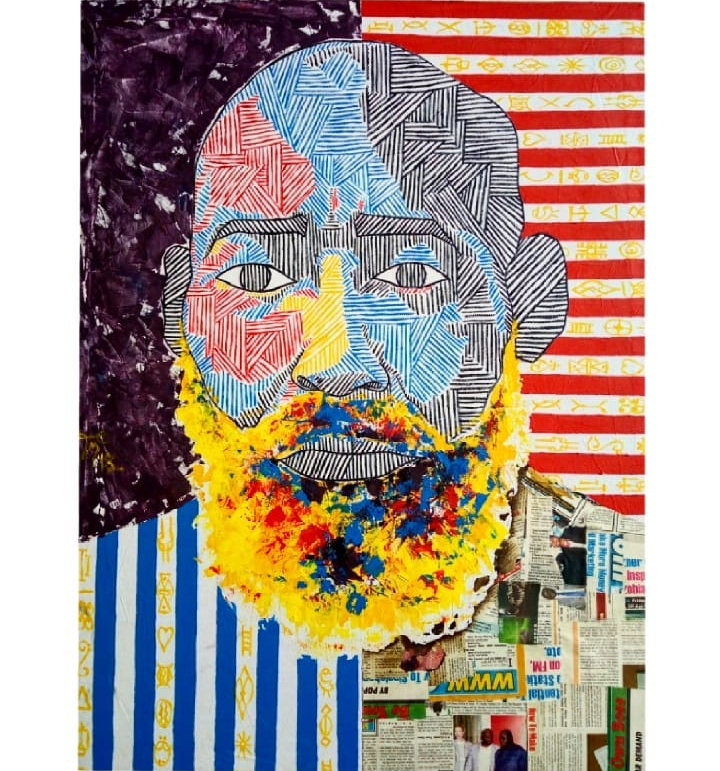
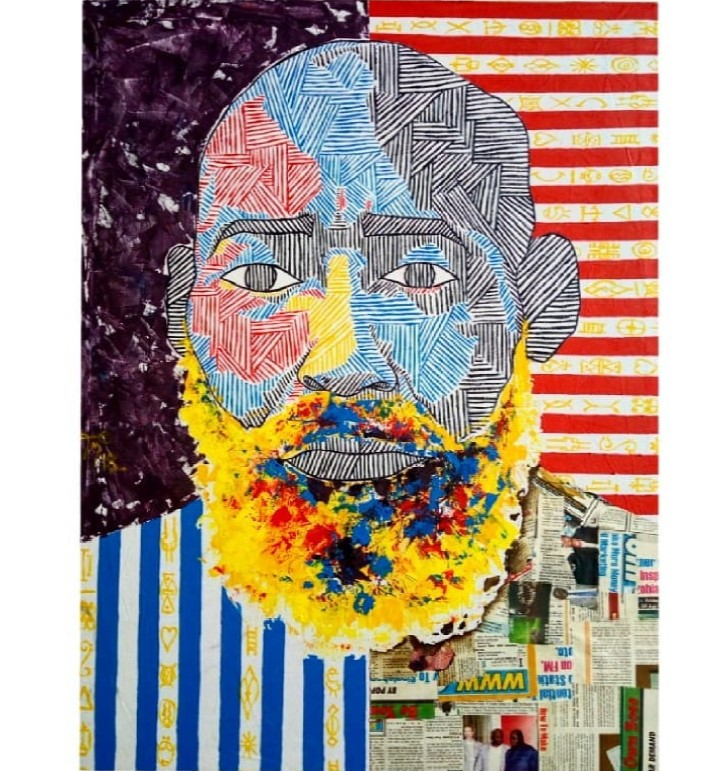
up

diff --git a/css/styles.css b/css/styles.css
@@ -122,31 +122,31 @@ window{opacity:1; background:black; }
 	 to{transform:rotate(360deg)}
 		}
 	
-	 #pichold>img{width:90%; height:70%; top:8%;}
+	 #pichold>img{width:96%; left:2%; height:70%; top:8%;}
      #pichold>h3{bottom:10.5%; left:15%; color:black; font-weight:normal;}
      #pichold>h4{bottom:8%; left:15%; color:teal; font-weight:lighter;}
 	 #pichold>#download{position:absolute; bottom:5%; right:10%;}
 	 #pichold>#cart{position:absolute; bottom:5%; right:5%;}
 	 
-	 #pichold1>img{width:90%;height:70%; top:8%;}
+	 #pichold1>img{width:96%; left:2%; height:70%; top:8%;}
      #pichold1>h3{bottom:10.5%; left:15%; color:black; font-weight:normal;}
      #pichold1>h4{bottom:8%; left:15%; color:teal; font-weight:lighter;}
 	 #pichold1>#download{position:absolute; bottom:5%; right:10%;}
 	 #pichold1>#cart1{position:absolute; bottom:5%; right:5%;}
 
-	 #pichold2>img{width:90%; height:70%; top:8%;}
+	 #pichold2>img{width:96%; left:2%; height:70%; top:8%;}
      #pichold2>h3{bottom:10.5%; left:15%; color:black; font-weight:normal;}
      #pichold2>h4{bottom:8%; left:15%; color:teal; font-weight:lighter;}
 	 #pichold2>#download{position:absolute; bottom:5%; right:10%;}
 	 #pichold2>#cart2{position:absolute; bottom:5%; right:5%;}
 	 
-     #pichold3>img{width:90%; height:70%; top:8%;}
+     #pichold3>img{width:96%; left:2%; height:70%; top:8%;}
      #pichold3>h3{bottom:10.5%; left:15%; color:black; font-weight:normal;}
      #pichold3>h4{bottom:8%; left:15%; color:teal; font-weight:lighter;}
 	 #pichold3>#download{position:absolute; bottom:5%; right:10%;}
 	 #pichold3>#cart3{position:absolute; bottom:5%; right:5%;} 
 	 
-	 #pichold4>img{width:90%; height:70%; top:8%;}
+	 #pichold4>img{width:96%; left:2%; height:70%; top:8%;}
      #pichold4>h3{bottom:10.5%; left:15%; color:black; font-weight:normal;}
      #pichold4>h4{bottom:8%; left:15%; color:teal; font-weight:lighter;}
 	 #pichold4>#download{position:absolute; bottom:5%; right:10%;}
